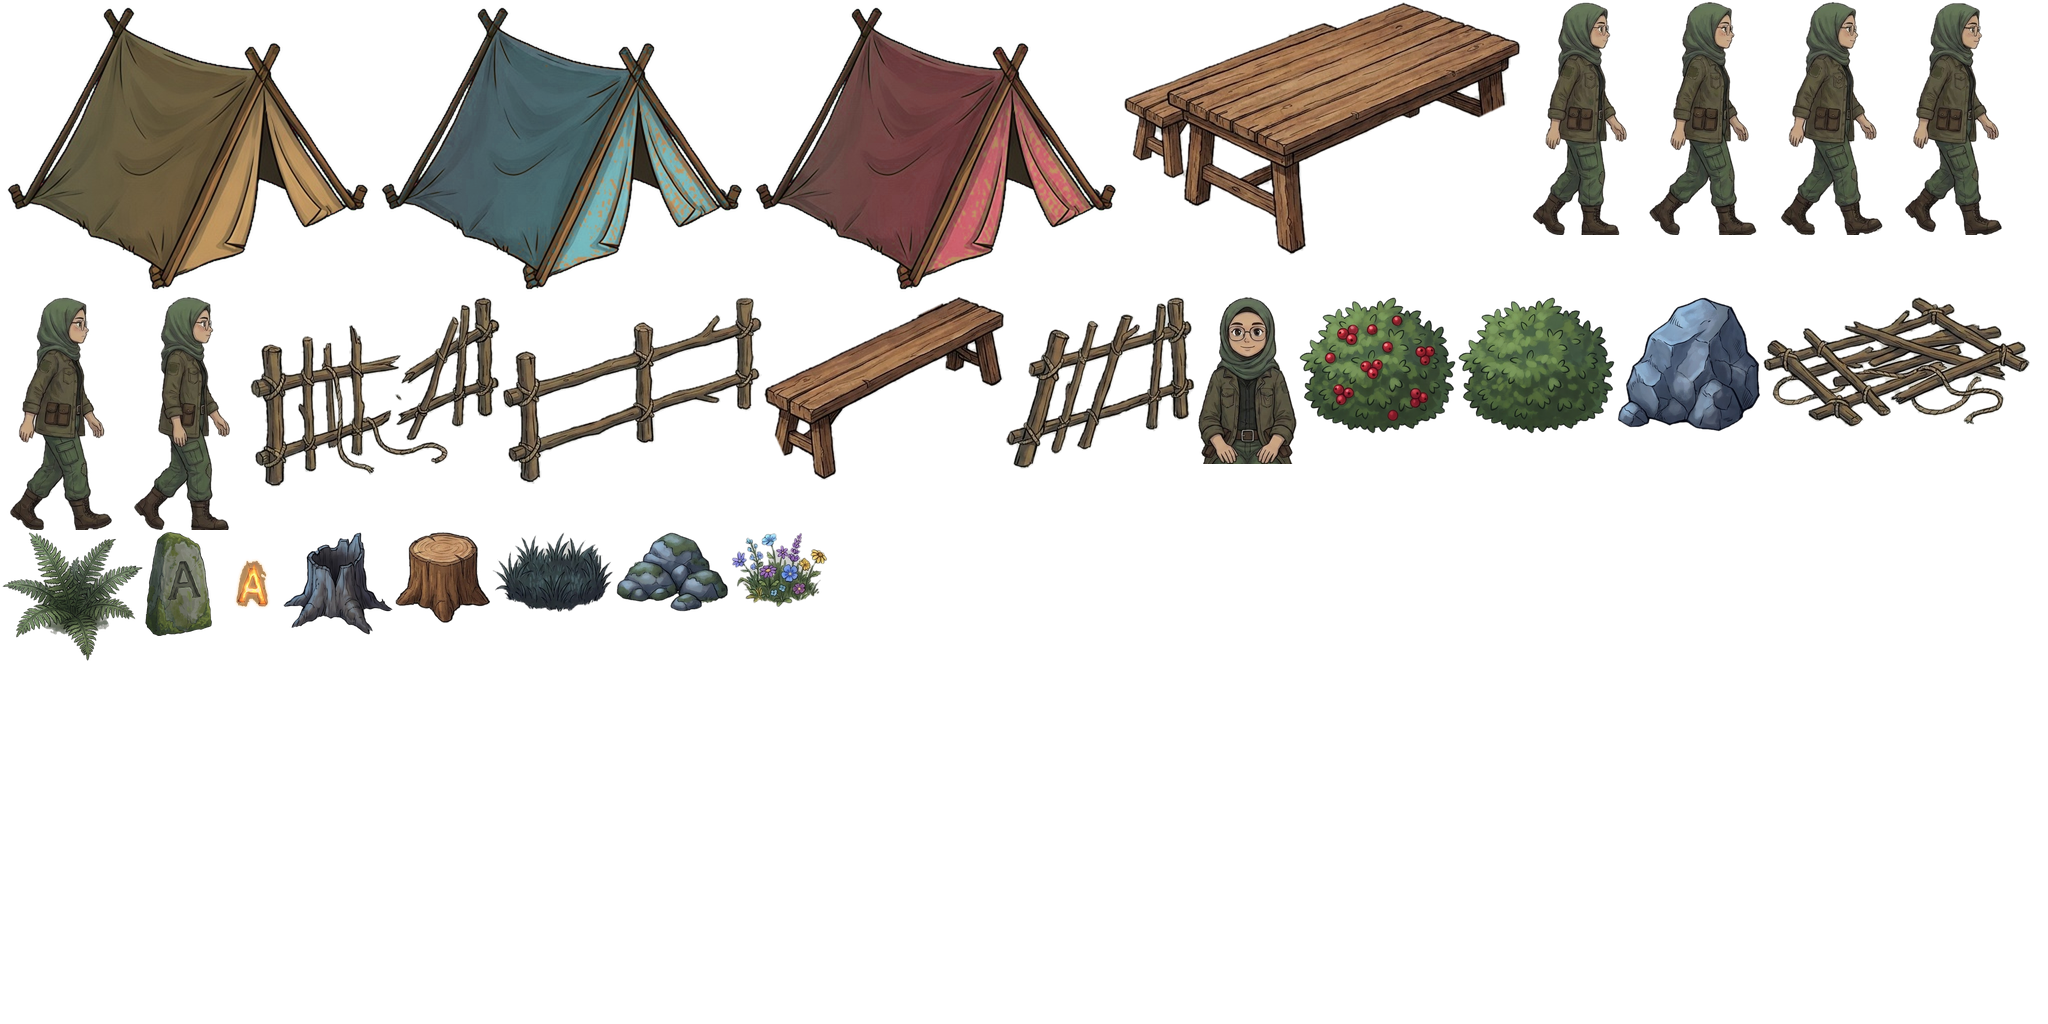
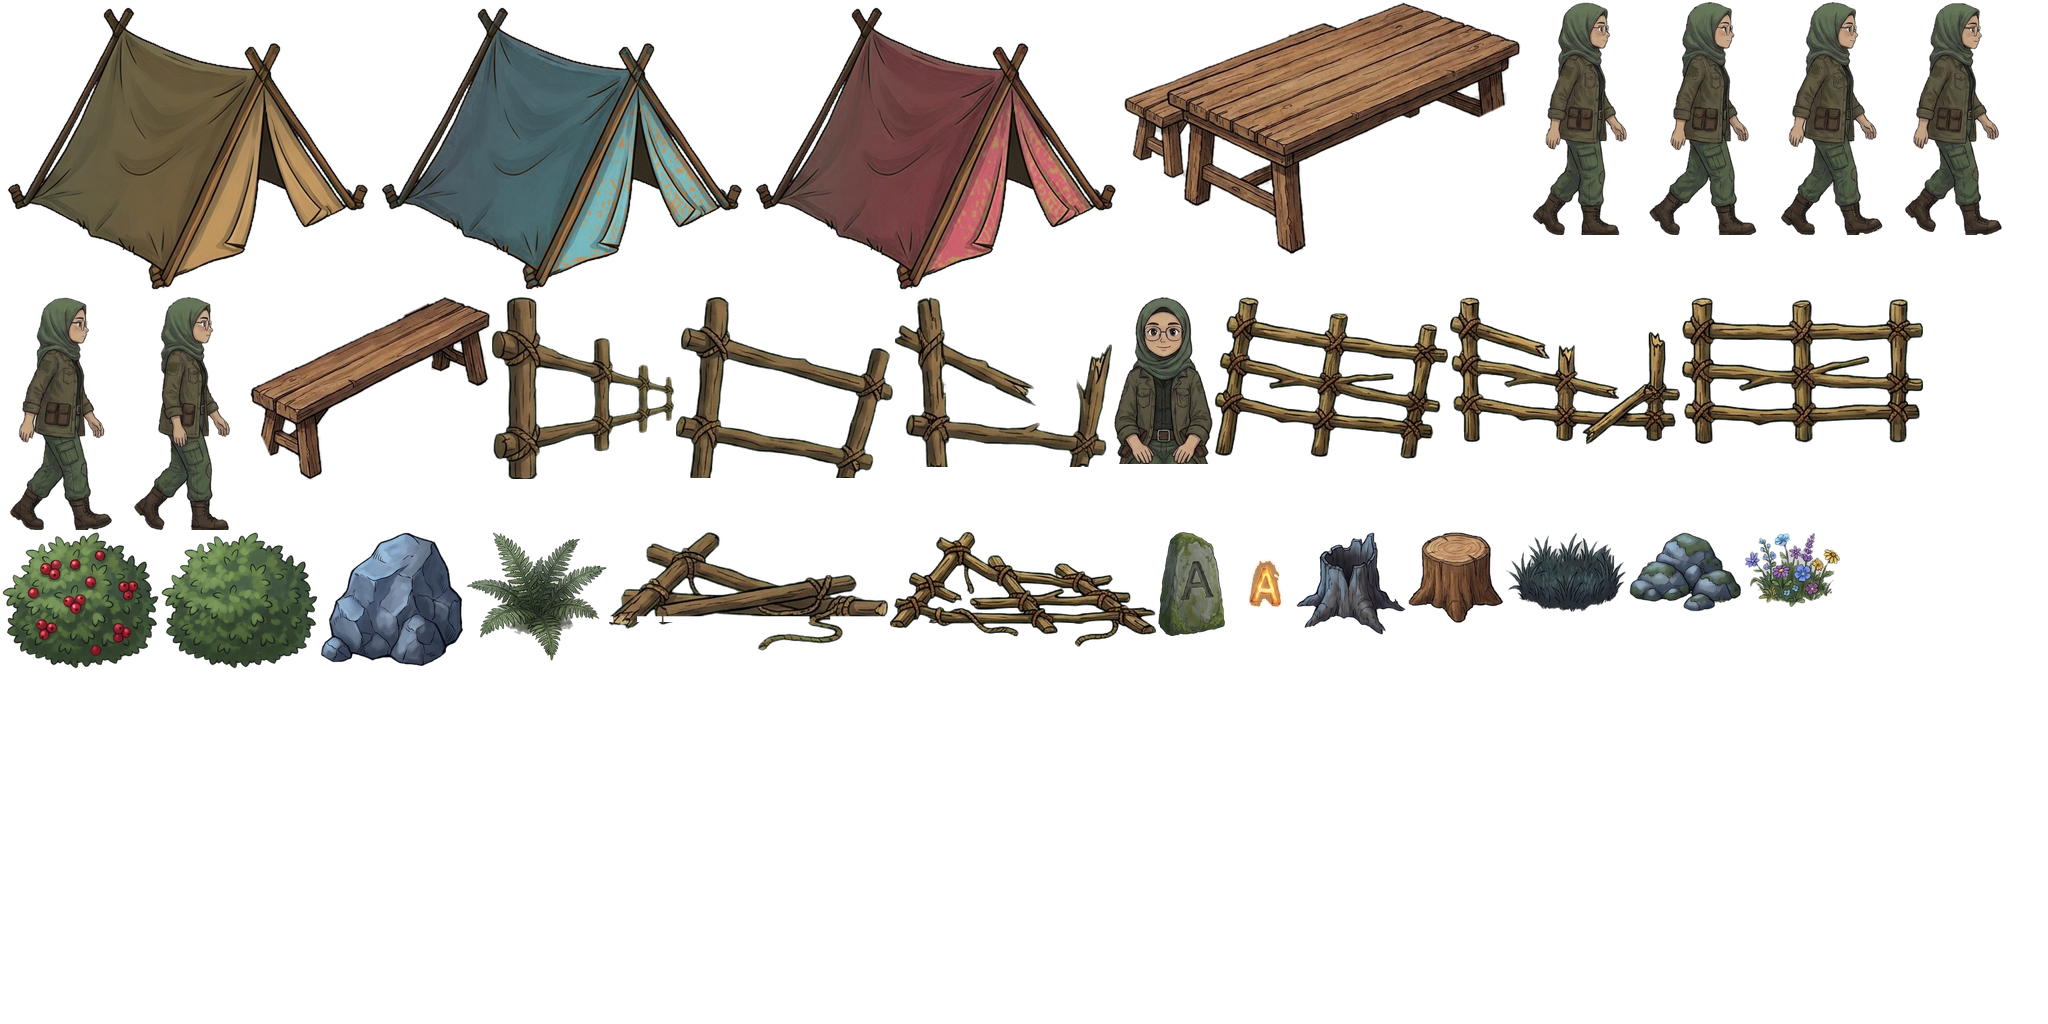
Camp v2 fence: replace fence art with Flow v2 front/side sheets (chroma-keyed, despilled), front view on horizontal ring slots, side view on vertical ones, no tilting

Changed region(s): [[0.125, 0.2812, 1.0, 0.4688], [0.0, 0.5, 0.9062, 0.6562]]

diff --git a/src/storybook/CampScene.ts b/src/storybook/CampScene.ts
@@ -371,28 +371,47 @@ export class CampScene extends Phaser.Scene {
   }
 
   /**
-   * Fence pieces (Flow art): weak = standing, damaged = leaning or half-broken, missing = collapsed on the ground
-   * (walkable), solid = the original camp fence. The art runs low-left to high-right; it is mirrored/tilted to
-   * follow each ring slot. Trail gates stay empty.
+   * Fence pieces (Flow art, front + side view): weak = standing, damaged = leaning or half-broken, missing =
+   * collapsed pile on the ground (walkable), solid = the original camp fence. Mostly horizontal ring slots use the
+   * front view, mostly vertical slots the side view (mirrored on the west so the rails run outwards). Pieces are
+   * only scaled to fill their slot and tilted a few degrees at most. Trail gates stay empty.
    */
   private drawFence(segs: FenceSeg[], states: FenceState[]): void {
-    const ART_ANG = -0.31; // slope of the pieces as drawn
+    const originY = camp2Meta.fenceOriginY as Record<string, number>;
+    const fire = this.sim.layout.fire;
     segs.forEach((f, i) => {
       const st = states[i];
       if (st === undefined || (st === "missing" && f.gate)) return;
-      const frame = st === "weak" ? "fence_weak" : st === "damaged" ? (Math.floor(f.id / 4) % 2 ? "fence_leaning" : "fence_halfbroken") : st === "missing" ? "fence_collapsed" : "fence_segment";
-      const atlas = st === "solid" ? CAMP_ATLAS : CAMP2_ATLAS;
       const dx = f.b.x - f.a.x, dy = f.b.y - f.a.y;
-      const mid = { x: (f.a.x + f.b.x) / 2, y: (f.a.y + f.b.y) / 2 };
+      if (st === "solid") {
+        const mid = { x: (f.a.x + f.b.x) / 2, y: (f.a.y + f.b.y) / 2 };
+        this.add.image(mid.x, mid.y, CAMP_ATLAS, "fence_segment").setOrigin(0.5, 0.85).setScale(0.32).setDepth(mid.y);
+        return;
+      }
+      const piece = st === "weak" ? "weak" : st === "missing" ? "collapsed" : Math.floor(f.id / 4) % 2 ? "leaning" : "halfbroken";
+      const front = Math.abs(dx) >= Math.abs(dy);
+      const view = front ? "front" : "side";
+      const frame = this.textures.getFrame(CAMP2_ATLAS, `fence_${view}_${piece}`);
+      const oy = originY[`${view}_${piece}`] ?? 1;
+      const pieceW = frame.width * FLOW_S;
+      // how many pieces fill the slot, and the scale that makes them meet without gaps
+      const run = front ? Math.abs(dx) : Math.abs(dy);
+      const step = front ? pieceW * 0.96 : 50;
+      const n = Math.max(1, Math.round(run / step));
+      const sc = front ? FLOW_S * Phaser.Math.Clamp((run / n) / (pieceW * 0.96), 0.85, 1.2) : FLOW_S;
       let ang = Math.atan2(dy, dx);
-      if (ang > Math.PI / 2) ang -= Math.PI; else if (ang < -Math.PI / 2) ang += Math.PI; // left-to-right
-      const flip = ang > 0;
-      const base = st === "solid" ? 0 : flip ? -ART_ANG : ART_ANG;
-      const rot = Phaser.Math.Clamp(ang - base, -0.45, 0.45);
-      const sx = Phaser.Math.Clamp(Math.abs(dx) / 95 + 0.3, 0.6, 1.1);
-      const s = st === "solid" ? 0.32 : FLOW_S;
-      const img = this.add.image(mid.x, mid.y, atlas, frame).setOrigin(0.5, st === "missing" ? 0.6 : 0.85).setFlipX(flip).setRotation(rot);
-      img.setScale(s * sx, s).setDepth(st === "missing" ? mid.y - 40 : mid.y);
+      if (ang > Math.PI / 2) ang -= Math.PI; else if (ang < -Math.PI / 2) ang += Math.PI;
+      const tilt = front ? Phaser.Math.Clamp(ang, -0.07, 0.07) : 0;
+      const mid = (f.a.x + f.b.x) / 2;
+      const west = mid < fire.x;
+      for (let k = 0; k < n; k++) {
+        const t = (k + 0.5) / n;
+        const x = f.a.x + dx * t, y = f.a.y + dy * t;
+        const img = this.add.image(x, y, CAMP2_ATLAS, frame.name).setScale(sc).setRotation(tilt);
+        if (front) img.setOrigin(0.5, oy);
+        else img.setFlipX(west).setOrigin(west ? 0.9 : 0.1, oy); // near post sits on the ring line
+        img.setDepth(piece === "collapsed" ? y - 30 : y);
+      }
     });
   }
 

diff --git a/tools/storybook/flow_camp_v2.py b/tools/storybook/flow_camp_v2.py
@@ -2,7 +2,7 @@
 
 Cut-outs: Cikgu Nisa walk cycle (6 side frames, feet on one ground line), Nisa seated (front view, stool removed:
 the sprite stops at the seat line and the table hides the rest), the table set (top variant, split into
-table+back bench and the front bench so depth sorting works), the stump stool, the 4 fence states and the
+table+back bench and the front bench so depth sorting works), the stump stool, the 4 fence states in front and side view (pure-green sheets, chroma-keyed) and the
 letter-A stone (dull + the glowing letter as an overlay that is aligned to the dull stone's groove).
 All sprites are stored at PX_PER_UNIT atlas pixels per world unit, so the in-game scale is 1 / PX_PER_UNIT.
 """
@@ -17,7 +17,7 @@ WALK_FIG_PX = 502           # hijab top to boot soles in nisa_walk_v1.jpg
 U_WALK = NISA_H / WALK_FIG_PX
 U_SIT = U_WALK * 240 / 255  # matched on head-to-belt length (walk 240 px, seated front view 255 px)
 U_TABLE = 170 / 649         # whole top table set ≈ 170 world units wide
-U_FENCE = 100 / 404         # standing piece ≈ one 100-unit fence slot
+U_FENCE = 92 / 290          # front standing piece (≈290 px wide on the v2 sheet) ≈ 92 world units
 U_STONE = 40 / 671          # A stone ≈ 40 world units tall
 
 
@@ -123,15 +123,79 @@ def table_set():
     return table, bench, stump, rel
 
 
+FENCE_STATES = ("weak", "leaning", "halfbroken", "collapsed")
+
+
+def chroma_key(a):
+    """Pure-green key: alpha from green dominance (soft 2-step ramp), green spill pulled out of the edge pixels."""
+    a = a.astype(np.float32)
+    r, g, b = a[..., 0], a[..., 1], a[..., 2]
+    key = g - np.maximum(r, b)                      # wood/rope/ink: <= ~10, screen: ~240
+    al = np.clip(1 - (key - 18) / (110 - 18), 0, 1)
+    # despill: no pixel may stay greener than its red/blue allow (wood is never green-dominant)
+    g2 = np.minimum(g, np.maximum(r, b) * 1.0 + 4)
+    out = np.dstack([r, g2, b]).clip(0, 255)
+    # semi-transparent edge pixels are mixes with the green: unmix towards the ink/wood colour
+    edge = (al > 0) & (al < 1)
+    for c in range(3):
+        bgc = (0.0, 248.0, 0.0)[c]
+        ch = a[..., c]
+        un = (ch - (1 - al) * bgc) / np.maximum(al, 1e-3)
+        out[..., c] = np.where(edge, np.clip(un, 0, 255), out[..., c])
+    # wood/ink green sits between red and blue: clamp both ways (no green fringe, no magenta from over-unmixing)
+    out[..., 1] = np.clip(out[..., 1], np.minimum(out[..., 0], out[..., 2]), np.maximum(out[..., 0], out[..., 2]) + 4)
+    return out, al
+
+
+def keyed_pieces(name, kill_rows=None, n=4):
+    a = load(name)
+    rgb, al = chroma_key(a)
+    if kill_rows:  # thin ground line: drop it wherever there is screen right above and below it
+        y0, y1 = kill_rows
+        above, below = al[y0 - 3], al[y1 + 3]
+        for y in range(y0, y1 + 1):
+            al[y] = np.where((above < 0.5) | (below < 0.5), 0, al[y])
+    m = (al > 0.5).astype(np.uint8)
+    nl, lab, st, _ = cv2.connectedComponentsWithStats(m, connectivity=8)
+    for i in range(1, nl):                          # specks (jpeg noise) go
+        if st[i, 4] < 40:
+            al[lab == i] = 0
+    cols = (al > 0.5).sum(0)
+    spans, ins = [], False
+    for x in range(len(cols)):
+        if cols[x] > 0 and not ins: s0, ins = x, True
+        if cols[x] == 0 and ins: spans.append((s0, x)); ins = False
+    spans = [sp for sp in spans if sp[1] - sp[0] > 6]
+    # merge nearest spans until there are n pieces (a piece can have a detached rope end)
+    while len(spans) > n:
+        gaps = [spans[i + 1][0] - spans[i][1] for i in range(len(spans) - 1)]
+        i = int(np.argmin(gaps)); spans[i:i + 2] = [(spans[i][0], spans[i + 1][1])]
+    assert len(spans) == n, spans
+    out = []
+    for x0, x1 in spans:
+        sub_al = al[:, x0:x1]
+        ys, xs = np.nonzero(sub_al > 0.02)
+        by0, by1, bx0, bx1 = ys.min(), ys.max() + 1, xs.min(), xs.max() + 1
+        piece_rgb = rgb[by0:by1, x0 + bx0:x0 + bx1]
+        piece_al = sub_al[by0:by1, bx0:bx1]
+        out.append((piece_rgb, piece_al, (x0 + bx0, by0, x0 + bx1, by1)))
+    return out
+
+
 def fence_pieces():
-    a = load("fence_pieces_v1.jpg")
+    """Front view (north/south runs) and side view (east/west runs), 4 states each, keyed off pure green."""
     k = PX_PER_UNIT * U_FENCE
-    return {
-        "fence_weak": cut_box(a, (180, 55, 610, 370), k)[0],
-        "fence_leaning": cut_box(a, (780, 75, 1110, 370), k)[0],
-        "fence_halfbroken": cut_box(a, (185, 385, 610, 712), k)[0],
-        "fence_collapsed": cut_box(a, (750, 465, 1195, 700), k)[0],
-    }
+    frames, meta = {}, {}
+    for view, name, kill in (("front", "fence_front_v2.jpg", None), ("side", "fence_side_v2.jpg", (474, 480))):
+        pieces = keyed_pieces(name, kill)
+        ground = max(p[2][3] for p in pieces[:3])     # shared ground (feet of the standing pieces)
+        for st, (rgb, al, box) in zip(FENCE_STATES, pieces):
+            im = Image.fromarray(np.dstack([rgb.astype(np.uint8), (al * 255).astype(np.uint8)]), "RGBA")
+            im = im.resize((max(1, round(im.width * k)), max(1, round(im.height * k))), Image.LANCZOS)
+            frames[f"fence_{view}_{st}"] = im
+            # origin y so that the sheet's ground line lands on the segment line
+            meta[f"{view}_{st}"] = round(min(1.0, (ground - box[1]) / (box[3] - box[1])), 3)
+    return frames, meta
 
 
 def a_stone():
@@ -184,7 +248,9 @@ def flow_frames():
     table, bench, stump, rel = table_set()
     frames["table"], frames["bench"], frames["stool"] = table, bench, stump
     meta["table"] = rel
-    frames.update(fence_pieces())
+    fence, fence_origin = fence_pieces()
+    frames.update(fence)
+    meta["fenceOriginY"] = fence_origin
     dull, overlay, lb = a_stone()
     frames["a_stone"], frames["a_stone_glow"] = dull, overlay
     meta["aLetter"] = lb

diff --git a/docs/sprints/sprint1-camp-v2.md b/docs/sprints/sprint1-camp-v2.md
@@ -32,7 +32,9 @@ Branch `sprint1-camp-v2` (from `sprint1-living-camp` @ 1811891). Based on the ap
 - **Flow art (Budiman, `assets/storybook-src/flow_camp_v2/`, cut by `tools/storybook/flow_camp_v2.py`):**
   Nisa walk cycle (6 side frames, advanced by distance walked, mirrored for left), Nisa seated (front view, cut at
   the seat line, behind the table on its back bench), table set (top variant split into table+back bench and front
-  bench), stump stool, fence pieces (weak = standing, damaged = leaning / half-broken, missing = collapsed on the
-  ground and walkable, solid = original camp fence art; open trail gates stay empty), letter-A stone (dull stone +
+  bench), stump stool, fence pieces v2 (pure-green sheets `fence_front_v2.jpg` / `fence_side_v2.jpg`, chroma-keyed with
+  despill; front view on mostly horizontal ring slots, side view on mostly vertical ones, mirrored on the west; no
+  tilting beyond ±4°; weak = standing, damaged = leaning / half-broken, missing = collapsed pile on the ground and
+  walkable, solid = original camp fence art; open trail gates stay empty), letter-A stone (dull stone +
   glowing letter overlay that fills bottom-up with `CampSim.letterGlow()`: gathering for the first fire fills it
   halfway, then it follows the fire's fuel; no letter is "found" yet, ABC stays 0/13).
